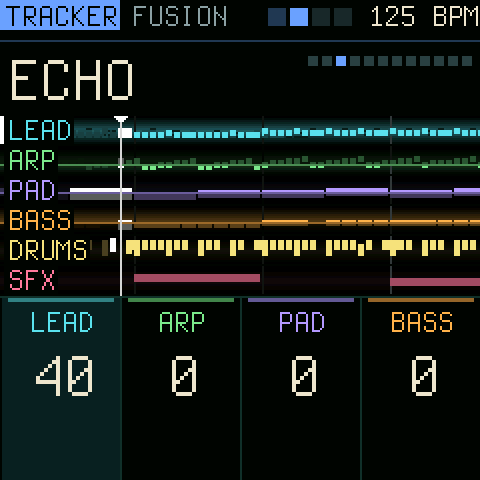
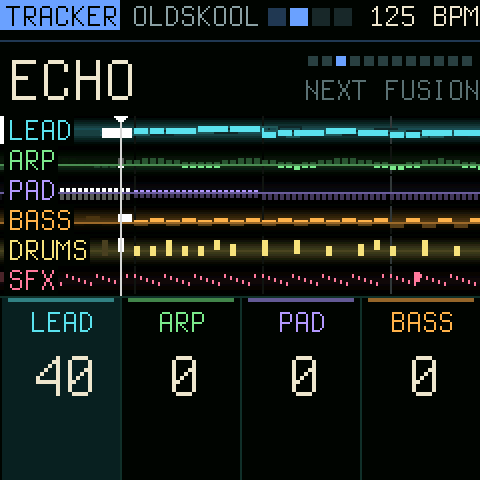
Start with OLDSKOOL
Without a saved set every lane starts with OLDSKOOL (it was FUSION);
the manual, release notes and screenshots follow.

Claude-Session: https://claude.ai/code/session_016qkHXEMEpD1LJg2Gca6rcm

diff --git a/firmware/src/makohai_music.c b/firmware/src/makohai_music.c
@@ -203,7 +203,7 @@ typedef struct {
 static lane_t ln[NLANE];
 static const int32_t LBASE[NLANE] = {62, 50, 38, 0, 62, 62}, LLO[NLANE] = {58, 45, 24, 0, 0, 58}, LHI[NLANE] = {98, 86, 64, 0, 0, 100};   /* bases on the tonic */
 static const int32_t LORDER[NLANE] = {3, 2, 1, 0, 4, 3};        /* blend order: drums first, the arp with the lead; sfx follows the bass */
-static int32_t target = 2, blend = 0, launch_bar = -1;           /* FUSION queued, as it plays */
+static int32_t target = 3, blend = 0, launch_bar = -1;           /* OLDSKOOL queued, as it plays */
 
 static int32_t eff_prof(int32_t l, int32_t b)
 {
@@ -1203,7 +1203,7 @@ static void music_init(void)
     uint32_t s, l, i;
     for (s = 0; s < NSLOT; s++) { bars[s][0].num = -1; bars[s][1].num = -1; }
     for (l = 0; l < NLANE; l++) {
-        ln[l].prof = 2; ln[l].lock = 0;                 /* it starts with FUSION */
+        ln[l].prof = 3; ln[l].lock = 0;                 /* it starts with OLDSKOOL */
         ln[l].dens = 50; ln[l].oct = 0;
         ln[l].mel = 0; ln[l].rhy = 50; ln[l].pit = 50; ln[l].chg = 40; ln[l].mute = 0;
         ln[l].up.on = 0; ln[l].up.bars = 1; ln[l].up.after = AF_LOOP; ln[l].up.ver++;

diff --git a/docs/RELEASE.md b/docs/RELEASE.md
@@ -1,7 +1,7 @@
 Makohai 0.1 (formerly Espada): the first version of a generative groovebox for the M-VAVE FM-1 in the style of early-90s PC tracker music.
 
 - Six lanes (lead, arp, pad, bass, drums, sfx) with FM voices, five synthesized drum kits of nine hits (kick, snare, hat, open hat, clap, tom, rim shot, kettle drum, crash) and eight noise effects (wash, surf, gale, crackle, bits, impact, zap, riser); notes scroll past a fixed play line.
-- Ten styles: EPIC, HYPERSPACE, FUSION, OLDSKOOL, SYMPHONY, TROPIC, STEEL, DRIFT, FUNK, RAVE, each with its chords, parts, instruments, tempo and way of playing. Queue, blend lane by lane, launch at once, lock a lane. Every change is heard at once.
+- Ten styles: EPIC, HYPERSPACE, FUSION, OLDSKOOL, SYMPHONY, TROPIC, STEEL, DRIFT, FUNK, RAVE, each with its chords, parts, instruments, tempo and way of playing. It starts with OLDSKOOL. Queue, blend lane by lane, launch at once, lock a lane. Every change is heard at once.
 - An arp lane: arpeggios through the chord that plays, each style its own pattern and sound.
 - Every style plays the tracker's effects its own way, note by note: vibrato, slides, dives, cut-off stabs, volume slides, retriggered fills, swing, a trance gate, wide stereo, orchestra hits.
 - Played as in a tracker: lead notes glide in, long chords swell and fade, an echo channel on the lead; strings with bow noise, darker and longer snares and cymbals.

diff --git a/docs/MANUAL.md b/docs/MANUAL.md
@@ -166,7 +166,7 @@ lane faded out, a save waiting, the keys' octave off 0.
     left (chosen at random) plays alone two bars and fades last. Then Makohai stops. The title says INTRO, INTER or
     END while one is running.
 - **The ten styles.** Each is a chord progression, a part for each lane, an instrument for each, a tempo, and a way
-  of playing. Change the mood with STYLE (SONG, LIVE) and SEQ.
+  of playing. Change the mood with STYLE (SONG, LIVE) and SEQ. Without a saved set Makohai starts with OLDSKOOL.
 
 | Style | Tempo | What it is |
 | --- | --- | --- |
